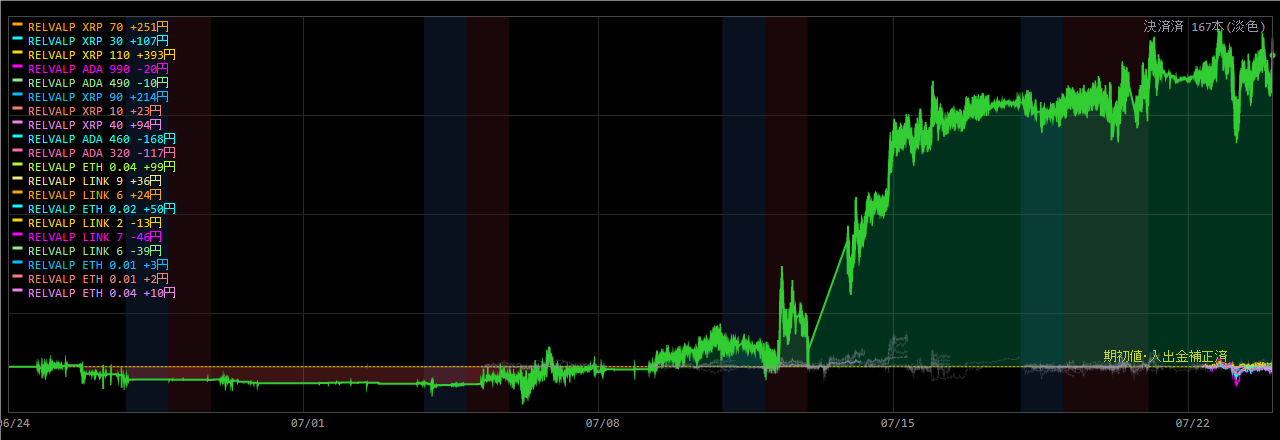
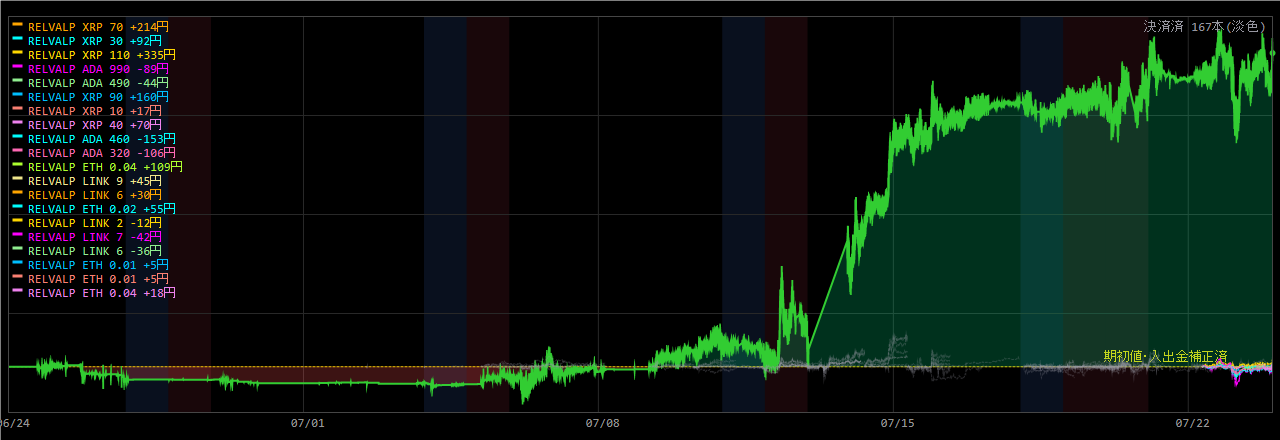
Coin100S 運用状況更新 07-23 21:59

diff --git a/coin100s-795hc4jfv8/index.html b/coin100s-795hc4jfv8/index.html
@@ -14,16 +14,16 @@ a{color:#60a5fa;text-decoration:none} a:hover{text-decoration:underline}
 .meta{color:#94a3b8;font-size:13px}</style>
 <script>setTimeout(function(){location.replace(location.pathname+"?t="+Date.now());},300000);</script></head><body>
 <h1>Coin100S ダッシュボード</h1>
-<p class="meta">スナップショット: 2026-07-23 21:52:39(自動リロード・最新化)</p>
+<p class="meta">スナップショット: 2026-07-23 21:58:39(自動リロード・最新化)</p>
 <div class="cards">
 <div class="card">建玉数<div class="v">20</div></div>
 <div class="card">本日損益<div class="v pos">+469円</div></div>
-<div class="card">評価損益<div class="v pos">+432円</div></div>
+<div class="card">評価損益<div class="v pos">+578円</div></div>
 </div>
 <h2>現在の建玉</h2>
-<table><tr><th>銘柄</th><th>側</th><th>数量</th><th>建値</th><th>含損益</th><th>レッグ</th></tr><tr><td>ADA_JPY</td><td>SELL</td><td>320</td><td>@28</td><td>-109円</td><td>RELVALP_SL700</td></tr><tr><td>ADA_JPY</td><td>SELL</td><td>460</td><td>@28</td><td>-157円</td><td>RELVALP_SELL</td></tr><tr><td>ADA_JPY</td><td>SELL</td><td>490</td><td>@28</td><td>-40円</td><td>RELVALP_SL700</td></tr><tr><td>ADA_JPY</td><td>SELL</td><td>990</td><td>@28</td><td>-80円</td><td>RELVALP_SELL</td></tr><tr><td>ETH_JPY</td><td>SELL</td><td>0.04</td><td>@312,191</td><td>+16円</td><td>RELVALP_SELL</td></tr><tr><td>ETH_JPY</td><td>SELL</td><td>0.01</td><td>@312,191</td><td>+4円</td><td>RELVALP_SELL</td></tr><tr><td>ETH_JPY</td><td>SELL</td><td>0.01</td><td>@312,216</td><td>+4円</td><td>RELVALP_SELL</td></tr><tr><td>ETH_JPY</td><td>SELL</td><td>0.02</td><td>@314,458</td><td>+53円</td><td>RELVALP_SL700</td></tr><tr><td>ETH_JPY</td><td>SELL</td><td>0.04</td><td>@314,458</td><td>+106円</td><td>RELVALP_SELL</td></tr><tr><td>LINK_JPY</td><td>SELL</td><td>6</td><td>@1,398</td><td>-78円</td><td>RELVALP_SL700</td></tr><tr><td>LINK_JPY</td><td>SELL</td><td>7</td><td>@1,398</td><td>-91円</td><td>RELVALP_SELL</td></tr><tr><td>LINK_JPY</td><td>SELL</td><td>2</td><td>@1,398</td><td>-26円</td><td>RELVALP_SELL</td></tr><tr><td>LINK_JPY</td><td>SELL</td><td>6</td><td>@1,409</td><td>-12円</td><td>RELVALP_SL700</td></tr><tr><td>LINK_JPY</td><td>SELL</td><td>9</td><td>@1,409</td><td>-18円</td><td>RELVALP_SELL</td></tr><tr><td>XRP_JPY</td><td>SELL</td><td>40</td><td>@186</td><td>+64円</td><td>RELVALP_SL700</td></tr><tr><td>XRP_JPY</td><td>SELL</td><td>10</td><td>@186</td><td>+16円</td><td>RELVALP_SELL</td></tr><tr><td>XRP_JPY</td><td>SELL</td><td>90</td><td>@186</td><td>+148円</td><td>RELVALP_SELL</td></tr><tr><td>XRP_JPY</td><td>SELL</td><td>110</td><td>@187</td><td>+331円</td><td>RELVALP_SELL</td></tr><tr><td>XRP_JPY</td><td>SELL</td><td>30</td><td>@187</td><td>+90円</td><td>RELVALP_SELL</td></tr><tr><td>XRP_JPY</td><td>SELL</td><td>70</td><td>@187</td><td>+211円</td><td>RELVALP_SL700</td></tr></table>
+<table><tr><th>銘柄</th><th>側</th><th>数量</th><th>建値</th><th>含損益</th><th>レッグ</th></tr><tr><td>ADA_JPY</td><td>SELL</td><td>320</td><td>@28</td><td>-109円</td><td>RELVALP_SL700</td></tr><tr><td>ADA_JPY</td><td>SELL</td><td>460</td><td>@28</td><td>-157円</td><td>RELVALP_SELL</td></tr><tr><td>ADA_JPY</td><td>SELL</td><td>490</td><td>@28</td><td>-40円</td><td>RELVALP_SL700</td></tr><tr><td>ADA_JPY</td><td>SELL</td><td>990</td><td>@28</td><td>-80円</td><td>RELVALP_SELL</td></tr><tr><td>ETH_JPY</td><td>SELL</td><td>0.04</td><td>@312,191</td><td>+32円</td><td>RELVALP_SELL</td></tr><tr><td>ETH_JPY</td><td>SELL</td><td>0.01</td><td>@312,191</td><td>+8円</td><td>RELVALP_SELL</td></tr><tr><td>ETH_JPY</td><td>SELL</td><td>0.01</td><td>@312,216</td><td>+8円</td><td>RELVALP_SELL</td></tr><tr><td>ETH_JPY</td><td>SELL</td><td>0.02</td><td>@314,458</td><td>+61円</td><td>RELVALP_SL700</td></tr><tr><td>ETH_JPY</td><td>SELL</td><td>0.04</td><td>@314,458</td><td>+123円</td><td>RELVALP_SELL</td></tr><tr><td>LINK_JPY</td><td>SELL</td><td>6</td><td>@1,398</td><td>-78円</td><td>RELVALP_SL700</td></tr><tr><td>LINK_JPY</td><td>SELL</td><td>7</td><td>@1,398</td><td>-91円</td><td>RELVALP_SELL</td></tr><tr><td>LINK_JPY</td><td>SELL</td><td>2</td><td>@1,398</td><td>-26円</td><td>RELVALP_SELL</td></tr><tr><td>LINK_JPY</td><td>SELL</td><td>6</td><td>@1,409</td><td>-12円</td><td>RELVALP_SL700</td></tr><tr><td>LINK_JPY</td><td>SELL</td><td>9</td><td>@1,409</td><td>-18円</td><td>RELVALP_SELL</td></tr><tr><td>XRP_JPY</td><td>SELL</td><td>40</td><td>@186</td><td>+79円</td><td>RELVALP_SL700</td></tr><tr><td>XRP_JPY</td><td>SELL</td><td>10</td><td>@186</td><td>+19円</td><td>RELVALP_SELL</td></tr><tr><td>XRP_JPY</td><td>SELL</td><td>90</td><td>@186</td><td>+181円</td><td>RELVALP_SELL</td></tr><tr><td>XRP_JPY</td><td>SELL</td><td>110</td><td>@187</td><td>+371円</td><td>RELVALP_SELL</td></tr><tr><td>XRP_JPY</td><td>SELL</td><td>30</td><td>@187</td><td>+101円</td><td>RELVALP_SELL</td></tr><tr><td>XRP_JPY</td><td>SELL</td><td>70</td><td>@187</td><td>+237円</td><td>RELVALP_SL700</td></tr></table>
 <p><a href="status.html"><b>▶ 運用状況の詳細(チャート・本日の取引・レジーム)</b></a></p>
 <h2>日報一覧</h2>
 <table><tr><th>取引日</th><th>実現損益</th><th>総括</th></tr><tr><td><a href='reports/20260722_Coin100S日報.html'>2026-07-22</a></td><td class="pos">+0円</td><td class='meta'>実取引: 新規10件/決済5件、実現損益 +0円。シグナル却下1件（最多: BW10M3_5M／トレンド方向ゲート(N分傾き下と不一致=逆張り方向のfade禁止)）。⚠警告/エラー 9件（要確認）。</td></tr><tr><td><a href='reports/20260721_Coin100S日報.html'>2026-07-21</a></td><td class="pos">+0円</td><td class='meta'>実取引: 新規4件/決済13件、実現損益 +0円。⚠警告/エラー 13件（要確認）。</td></tr><tr><td><a href='reports/20260720_Coin100S日報.html'>2026-07-20</a></td><td class="pos">+0円</td><td class='meta'>実取引: 新規8件/決済21件、実現損益 +0円。シグナル却下8件（最多: BW10M3_5M／トレンド方向ゲート(N分傾き上と不一致=逆張り方向のfade禁止)）。⚠警告/エラー 13件（要確認）。</td></tr><tr><td><a href='reports/20260719_Coin100S日報.html'>2026-07-19</a></td><td class="pos">+0円</td><td class='meta'>実取引: 新規10件/決済7件、実現損益 +0円。⚠警告/エラー 3件（要確認）。</td></tr><tr><td><a href='reports/20260718_Coin100S日報.html'>2026-07-18</a></td><td class="pos">+0円</td><td class='meta'>実取引: 新規9件/決済8件、実現損益 +0円。警告/孤児/エラーなし＝健全。</td></tr><tr><td><a href='reports/20260717_Coin100S日報.html'>2026-07-17</a></td><td class="pos">+0円</td><td class='meta'>実取引: 新規3件/決済2件、実現損益 +0円。シグナル却下1件（最多: BW10M3_5M／トレンド方向ゲート(N分傾き下と不一致=逆張り方向のfade禁止)）。⚠警告/エラー 2件（要確認）。</td></tr><tr><td><a href='reports/20260716_Coin100S日報.html'>2026-07-16</a></td><td class="pos">+0円</td><td class='meta'>実取引: 新規0件/決済5件、実現損益 +0円。⚠警告/エラー 7件（要確認）。</td></tr><tr><td><a href='reports/20260715_Coin100S日報.html'>2026-07-15</a></td><td class="pos">+0円</td><td class='meta'>実取引: 新規6件/決済5件、実現損益 +0円。シグナル却下6件（最多: BW10M3_5M／トレンド方向ゲート(N分傾き上と不一致=逆張り方向のfade禁止)）。⚠警告/エラー 7件（要確認）。</td></tr><tr><td><a href='reports/20260714_Coin100S日報.html'>2026-07-14</a></td><td class="pos">+0円</td><td class='meta'>実取引: 新規6件/決済18件、実現損益 +0円。シグナル却下5件（最多: BW10M3_5M／トレンド方向ゲート(N分傾き上と不一致=逆張り方向のfade禁止)）。⚠警告/エラー 9件（要確認）。</td></tr><tr><td><a href='reports/20260713_Coin100S日報.html'>2026-07-13</a></td><td class="pos">+0円</td><td class='meta'>実取引: 新規5件/決済8件、実現損益 +0円。シグナル却下1件（最多: BW10M3_5M／トレンド方向ゲート(N分傾き上と不一致=逆張り方向のfade禁止)）。警告/孤児/エラーなし＝健全。</td></tr><tr><td><a href='reports/20260712_Coin100S日報.html'>2026-07-12</a></td><td class="pos">+0円</td><td class='meta'>実取引: 新規14件/決済6件、実現損益 +0円。シグナル却下5件（最多: BW10M3_5M／トレンド方向ゲート(N分傾き下と不一致=逆張り方向のfade禁止)）。⚠警告/エラー 2件（要確認）。</td></tr><tr><td><a href='reports/20260711_Coin100S日報.html'>2026-07-11</a></td><td class="pos">+0円</td><td class='meta'>実取引: 新規7件/決済6件、実現損益 +0円。⚠警告/エラー 52件（要確認）。</td></tr><tr><td><a href='reports/20260710_Coin100S日報.html'>2026-07-10</a></td><td class="pos">+0円</td><td class='meta'>実取引: 新規7件/決済6件、実現損益 +0円。シグナル却下6件（最多: BW10M3_5M／トレンド方向ゲート(N分傾き上と不一致=逆張り方向のfade禁止)）。警告/孤児/エラーなし＝健全。</td></tr><tr><td><a href='reports/20260709_Coin100S日報.html'>2026-07-09</a></td><td class="pos">+0円</td><td class='meta'>実取引: 新規8件/決済3件、実現損益 +0円。シグナル却下5件（最多: SD120M_5M／トレンド方向ゲート(N分傾き上と不一致=逆張り方向のfade禁止)）。警告/孤児/エラーなし＝健全。</td></tr><tr><td><a href='reports/20260708_Coin100S日報.html'>2026-07-08</a></td><td class="pos">+0円</td><td class='meta'>実取引: 新規2件/決済4件、実現損益 +0円。シグナル却下4件（最多: SD120M_5M／トレンド方向ゲート(N分傾き下と不一致=逆張り方向のfade禁止)）。警告/孤児/エラーなし＝健全。</td></tr><tr><td><a href='reports/20260707_Coin100S日報.html'>2026-07-07</a></td><td class="pos">+0円</td><td class='meta'>実取引: 新規8件/決済6件、実現損益 +0円。シグナル却下4件（最多: SD120M_5M／トレンド方向ゲート(N分傾き上と不一致=逆張り方向のfade禁止)）。⚠警告/エラー 258件（要確認）。</td></tr><tr><td><a href='reports/20260706_Coin100S日報.html'>2026-07-06</a></td><td class="pos">+0円</td><td class='meta'>実取引: 新規9件/決済6件、実現損益 +0円。シグナル却下9件（最多: SD120M_5M／トレンド方向ゲート(N分傾き上と不一致=逆張り方向のfade禁止)）。⚠警告/エラー 150件（要確認）。</td></tr><tr><td><a href='reports/20260705_Coin100S日報.html'>2026-07-05</a></td><td class="pos">+0円</td><td class='meta'>実取引: 新規8件/決済3件、実現損益 +0円。⚠警告/エラー 2件（要確認）。</td></tr><tr><td><a href='reports/20260704_Coin100S日報.html'>2026-07-04</a></td><td class="pos">+0円</td><td class='meta'>実取引: 新規1件/決済2件、実現損益 +0円。⚠警告/エラー 2件（要確認）。</td></tr><tr><td><a href='reports/20260703_Coin100S日報.html'>2026-07-03</a></td><td class="pos">+0円</td><td class='meta'>実取引: 新規5件/決済4件、実現損益 +0円。⚠警告/エラー 15件（要確認）。</td></tr><tr><td><a href='reports/20260702_Coin100S日報.html'>2026-07-02</a></td><td class="pos">+0円</td><td class='meta'>実取引: 新規7件/決済5件、実現損益 +0円。シグナル却下17件（最多: SD120M_5M／トレンド方向ゲート(N分傾き上と不一致=逆張り方向のfade禁止)）。⚠警告/エラー 26件（要確認）。</td></tr><tr><td><a href='reports/20260701_Coin100S日報.html'>2026-07-01</a></td><td class="pos">+0円</td><td class='meta'>実取引: 新規14件/決済8件、実現損益 +0円。シグナル却下14件（最多: SD120M_5M／ボラ軸ゲート(SDN%&amp;gt;N%=高ボラ/荒れレンジ)）。⚠警告/エラー 2件（要確認）。</td></tr><tr><td><a href='reports/20260630_Coin100S日報.html'>2026-06-30</a></td><td class="pos">+0円</td><td class='meta'>実取引: 新規0件/決済1件、実現損益 +0円。シグナル却下29件（最多: 微5M／当日枠N）。警告/孤児/エラーなし＝健全。</td></tr></table>
-<hr><p class="meta">更新: 2026-07-23 21:53:08 / 自動生成: tools/web_publish.py(§580)</p>
+<hr><p class="meta">更新: 2026-07-23 21:59:09 / 自動生成: tools/web_publish.py(§580)</p>
 </body></html>

diff --git a/coin100s-795hc4jfv8/status.html b/coin100s-795hc4jfv8/status.html
@@ -14,22 +14,22 @@ a{color:#60a5fa;text-decoration:none} a:hover{text-decoration:underline}
 .meta{color:#94a3b8;font-size:13px}</style>
 <script>setTimeout(function(){location.replace(location.pathname+"?t="+Date.now());},300000);</script></head><body>
 <h1>Coin100S 運用状況</h1>
-<p class="meta">スナップショット: 2026-07-23 21:52:39 / ページ生成: 2026-07-23 21:53:08(自動リロード・最新化) / <a href="index.html">目次へ</a></p>
+<p class="meta">スナップショット: 2026-07-23 21:58:39 / ページ生成: 2026-07-23 21:59:09(自動リロード・最新化) / <a href="index.html">目次へ</a></p>
 <div class="cards">
 <div class="card">建玉数<div class="v">20</div></div>
 <div class="card">本日損益<div class="v pos">+469円</div></div>
-<div class="card">評価損益<div class="v pos">+432円</div></div>
+<div class="card">評価損益<div class="v pos">+578円</div></div>
 </div>
 <h2>資産推移(直近30日)</h2>
-<img src="status_equity.png?t=2153" alt="equity">
+<img src="status_equity.png?t=2159" alt="equity">
 <h2>取引チャート(直近24h)</h2>
-<img src="status_chart.png?t=2153" alt="chart">
+<img src="status_chart.png?t=2159" alt="chart">
 <h2>建玉一覧</h2>
-<table><tr><th>銘柄</th><th>側</th><th>数量</th><th>建値</th><th>含損益</th><th>レッグ</th></tr><tr><td>ADA_JPY</td><td>SELL</td><td>320</td><td>@28</td><td>-109円</td><td>RELVALP_SL700</td></tr><tr><td>ADA_JPY</td><td>SELL</td><td>460</td><td>@28</td><td>-157円</td><td>RELVALP_SELL</td></tr><tr><td>ADA_JPY</td><td>SELL</td><td>490</td><td>@28</td><td>-40円</td><td>RELVALP_SL700</td></tr><tr><td>ADA_JPY</td><td>SELL</td><td>990</td><td>@28</td><td>-80円</td><td>RELVALP_SELL</td></tr><tr><td>ETH_JPY</td><td>SELL</td><td>0.04</td><td>@312,191</td><td>+16円</td><td>RELVALP_SELL</td></tr><tr><td>ETH_JPY</td><td>SELL</td><td>0.01</td><td>@312,191</td><td>+4円</td><td>RELVALP_SELL</td></tr><tr><td>ETH_JPY</td><td>SELL</td><td>0.01</td><td>@312,216</td><td>+4円</td><td>RELVALP_SELL</td></tr><tr><td>ETH_JPY</td><td>SELL</td><td>0.02</td><td>@314,458</td><td>+53円</td><td>RELVALP_SL700</td></tr><tr><td>ETH_JPY</td><td>SELL</td><td>0.04</td><td>@314,458</td><td>+106円</td><td>RELVALP_SELL</td></tr><tr><td>LINK_JPY</td><td>SELL</td><td>6</td><td>@1,398</td><td>-78円</td><td>RELVALP_SL700</td></tr><tr><td>LINK_JPY</td><td>SELL</td><td>7</td><td>@1,398</td><td>-91円</td><td>RELVALP_SELL</td></tr><tr><td>LINK_JPY</td><td>SELL</td><td>2</td><td>@1,398</td><td>-26円</td><td>RELVALP_SELL</td></tr><tr><td>LINK_JPY</td><td>SELL</td><td>6</td><td>@1,409</td><td>-12円</td><td>RELVALP_SL700</td></tr><tr><td>LINK_JPY</td><td>SELL</td><td>9</td><td>@1,409</td><td>-18円</td><td>RELVALP_SELL</td></tr><tr><td>XRP_JPY</td><td>SELL</td><td>40</td><td>@186</td><td>+64円</td><td>RELVALP_SL700</td></tr><tr><td>XRP_JPY</td><td>SELL</td><td>10</td><td>@186</td><td>+16円</td><td>RELVALP_SELL</td></tr><tr><td>XRP_JPY</td><td>SELL</td><td>90</td><td>@186</td><td>+148円</td><td>RELVALP_SELL</td></tr><tr><td>XRP_JPY</td><td>SELL</td><td>110</td><td>@187</td><td>+331円</td><td>RELVALP_SELL</td></tr><tr><td>XRP_JPY</td><td>SELL</td><td>30</td><td>@187</td><td>+90円</td><td>RELVALP_SELL</td></tr><tr><td>XRP_JPY</td><td>SELL</td><td>70</td><td>@187</td><td>+211円</td><td>RELVALP_SL700</td></tr></table>
+<table><tr><th>銘柄</th><th>側</th><th>数量</th><th>建値</th><th>含損益</th><th>レッグ</th></tr><tr><td>ADA_JPY</td><td>SELL</td><td>320</td><td>@28</td><td>-109円</td><td>RELVALP_SL700</td></tr><tr><td>ADA_JPY</td><td>SELL</td><td>460</td><td>@28</td><td>-157円</td><td>RELVALP_SELL</td></tr><tr><td>ADA_JPY</td><td>SELL</td><td>490</td><td>@28</td><td>-40円</td><td>RELVALP_SL700</td></tr><tr><td>ADA_JPY</td><td>SELL</td><td>990</td><td>@28</td><td>-80円</td><td>RELVALP_SELL</td></tr><tr><td>ETH_JPY</td><td>SELL</td><td>0.04</td><td>@312,191</td><td>+32円</td><td>RELVALP_SELL</td></tr><tr><td>ETH_JPY</td><td>SELL</td><td>0.01</td><td>@312,191</td><td>+8円</td><td>RELVALP_SELL</td></tr><tr><td>ETH_JPY</td><td>SELL</td><td>0.01</td><td>@312,216</td><td>+8円</td><td>RELVALP_SELL</td></tr><tr><td>ETH_JPY</td><td>SELL</td><td>0.02</td><td>@314,458</td><td>+61円</td><td>RELVALP_SL700</td></tr><tr><td>ETH_JPY</td><td>SELL</td><td>0.04</td><td>@314,458</td><td>+123円</td><td>RELVALP_SELL</td></tr><tr><td>LINK_JPY</td><td>SELL</td><td>6</td><td>@1,398</td><td>-78円</td><td>RELVALP_SL700</td></tr><tr><td>LINK_JPY</td><td>SELL</td><td>7</td><td>@1,398</td><td>-91円</td><td>RELVALP_SELL</td></tr><tr><td>LINK_JPY</td><td>SELL</td><td>2</td><td>@1,398</td><td>-26円</td><td>RELVALP_SELL</td></tr><tr><td>LINK_JPY</td><td>SELL</td><td>6</td><td>@1,409</td><td>-12円</td><td>RELVALP_SL700</td></tr><tr><td>LINK_JPY</td><td>SELL</td><td>9</td><td>@1,409</td><td>-18円</td><td>RELVALP_SELL</td></tr><tr><td>XRP_JPY</td><td>SELL</td><td>40</td><td>@186</td><td>+79円</td><td>RELVALP_SL700</td></tr><tr><td>XRP_JPY</td><td>SELL</td><td>10</td><td>@186</td><td>+19円</td><td>RELVALP_SELL</td></tr><tr><td>XRP_JPY</td><td>SELL</td><td>90</td><td>@186</td><td>+181円</td><td>RELVALP_SELL</td></tr><tr><td>XRP_JPY</td><td>SELL</td><td>110</td><td>@187</td><td>+371円</td><td>RELVALP_SELL</td></tr><tr><td>XRP_JPY</td><td>SELL</td><td>30</td><td>@187</td><td>+101円</td><td>RELVALP_SELL</td></tr><tr><td>XRP_JPY</td><td>SELL</td><td>70</td><td>@187</td><td>+237円</td><td>RELVALP_SL700</td></tr></table>
 <h2>実現決済履歴(直近15件・OrderId単位)</h2>
 <table><tr><th>決済時刻</th><th>レッグ</th><th>銘柄</th><th>実現損益</th></tr><tr><td>07-23 21:46</td><td>SIGFADE_SOL</td><td>SOL</td><td class="pos">+557円</td></tr><tr><td>07-23 06:08</td><td>RELVALP_SELL</td><td>SOL</td><td class="neg">-67円</td></tr><tr><td>07-23 06:08</td><td>RELVALP_SL700</td><td>SOL</td><td class="neg">-21円</td></tr><tr><td>07-23 01:34</td><td>SIGFADE_BTC</td><td>BTC</td><td class="pos">+27円</td></tr><tr><td>07-22 09:08</td><td>SIGFADE_SOL</td><td>SOL</td><td class="pos">+220円</td></tr><tr><td>07-22 09:08</td><td>SIGFADE_ETH</td><td>ETH</td><td class="pos">+243円</td></tr><tr><td>07-21 08:07</td><td>TENKI5D_REV_DOGE</td><td>DOGE</td><td class="neg">-210円</td></tr><tr><td>07-21 06:11</td><td>TENKI5D_REV_ETH</td><td>ETH</td><td class="pos">+622円</td></tr><tr><td>07-21 06:11</td><td>TENKI5D_REV_ETH</td><td>ETH</td><td class="pos">+124円</td></tr><tr><td>07-21 06:09</td><td>TENKI5D_REV_SOL</td><td>SOL</td><td class="pos">+287円</td></tr><tr><td>07-21 06:09</td><td>TENKI5D_REV_SOL</td><td>SOL</td><td class="pos">+454円</td></tr><tr><td>07-21 06:09</td><td>TENKI5D_REV_BTC</td><td>BTC</td><td class="pos">+649円</td></tr><tr><td>07-21 06:08</td><td>RELVALP_SELL</td><td>LTC</td><td class="neg">-267円</td></tr><tr><td>07-21 06:08</td><td>RELVALP_SL700</td><td>LTC</td><td class="neg">-90円</td></tr><tr><td>07-20 23:29</td><td>BW10M3_5M</td><td>BTC</td><td class="neg">-45円</td></tr></table>
 <!-- §799c 「本取引日の実取引(6:00起点)」テーブルは公開ページから削除(ユーザー指示2026-07-15・数量/指値まで晒す情報漏れ)。建玉/実現損益は許可・実発注の生取引明細は非公開 -->
 <h2>現在レジーム(3軸・§570c)</h2>
-<ul><li>アルト対BTC 5日: <b>+31bps</b>(アルト優越=RELVAL逆風)</li><li>BTC ER240m: <b>0.071</b>(閾値0.25→レンジ(fade順風/BWTRD逆風))</li><li>BTC実現ボラ240m: <b>3.24</b> bps/分</li></ul>
+<ul><li>アルト対BTC 5日: <b>+31bps</b>(アルト優越=RELVAL逆風)</li><li>BTC ER240m: <b>0.093</b>(閾値0.25→レンジ(fade順風/BWTRD逆風))</li><li>BTC実現ボラ240m: <b>3.28</b> bps/分</li></ul>
 <hr><p class="meta">自動生成: tools/web_publish.py(§580・読み取り専用)。売買判断はアプリ本体。</p>
 </body></html>
